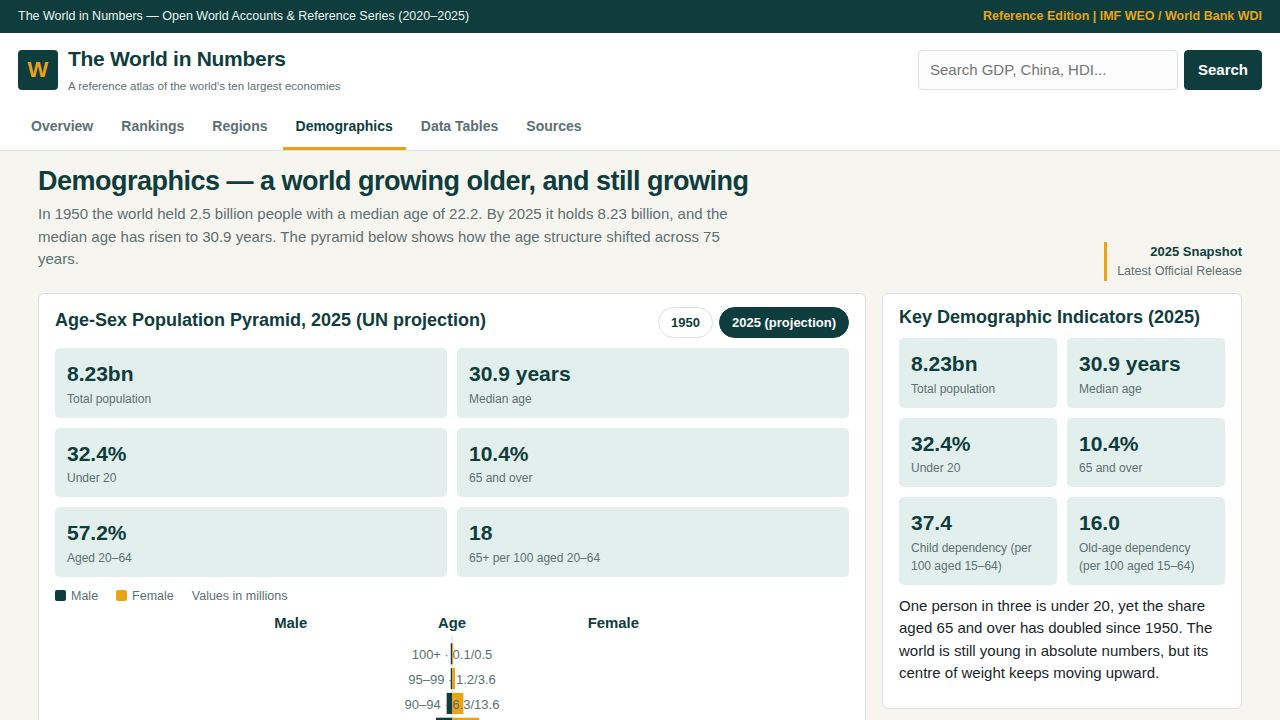
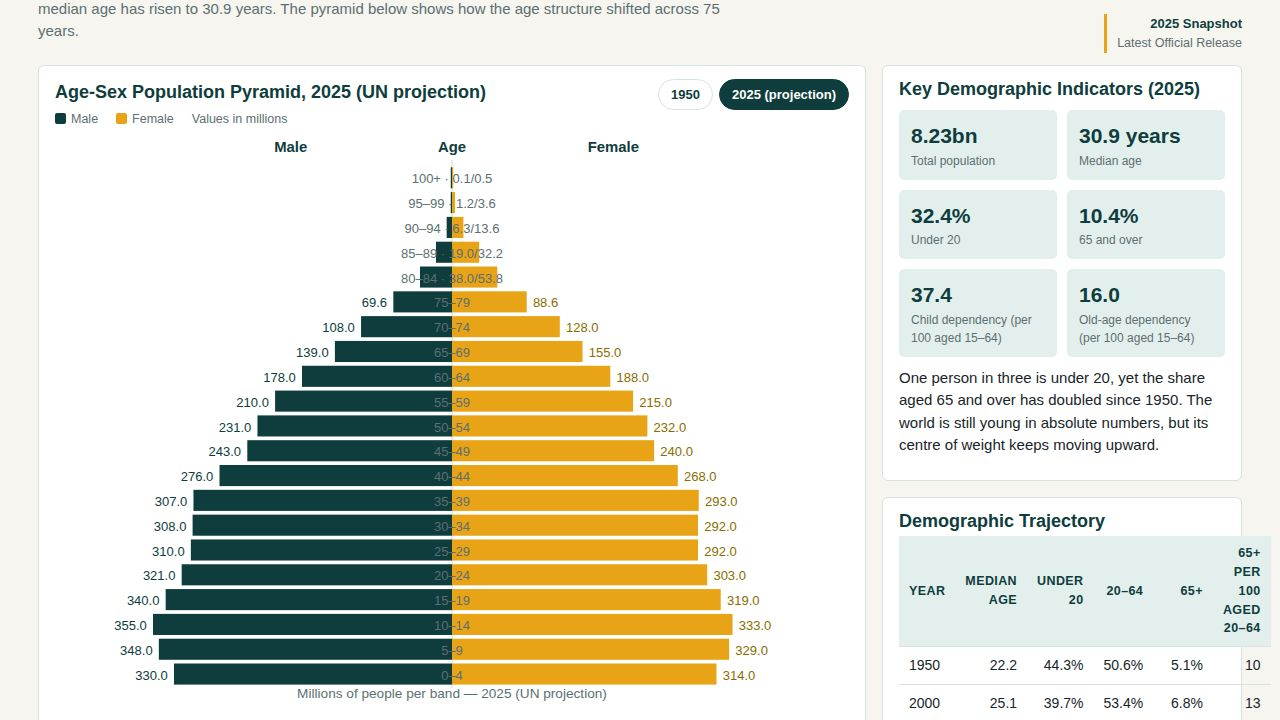
Remove duplicate indicator cards from pyramid panel; retake demographics screenshot (full 21-band pyramid)

diff --git a/app/views.js b/app/views.js
@@ -140,14 +140,6 @@ export function viewDemographics(state) {
     <section class="panel">
       <div class="panel-head"><h2>Age-Sex Population Pyramid, ${year === 2025 ? '2025 (UN projection)' : '1950'}</h2>
       <div class="pills">${pill(1950)}${pill(2025)}</div></div>
-      <div class="stat-grid" id="pyramid-summary">
-        <div class="stat-cell"><div class="s-val">${s.total}</div><div class="s-lab">Total population</div></div>
-        <div class="stat-cell"><div class="s-val">${s.medianAge.toFixed(1)} years</div><div class="s-lab">Median age</div></div>
-        <div class="stat-cell"><div class="s-val">${s.under20.toFixed(1)}%</div><div class="s-lab">Under 20</div></div>
-        <div class="stat-cell"><div class="s-val">${s.over65.toFixed(1)}%</div><div class="s-lab">65 and over</div></div>
-        <div class="stat-cell"><div class="s-val">${s.age2064.toFixed(1)}%</div><div class="s-lab">Aged 20–64</div></div>
-        <div class="stat-cell"><div class="s-val">${s.oldPer100}</div><div class="s-lab">65+ per 100 aged 20–64</div></div>
-      </div>
       <div class="pyramid-legend"><span><span class="dot m"></span>Male</span><span><span class="dot f"></span>Female</span><span>Values in millions</span></div>
       <div class="pyramid-wrap" id="pyramid-chart">${pyramid(bands, s.note)}</div>
       <div class="brackets">${brackets}</div>
